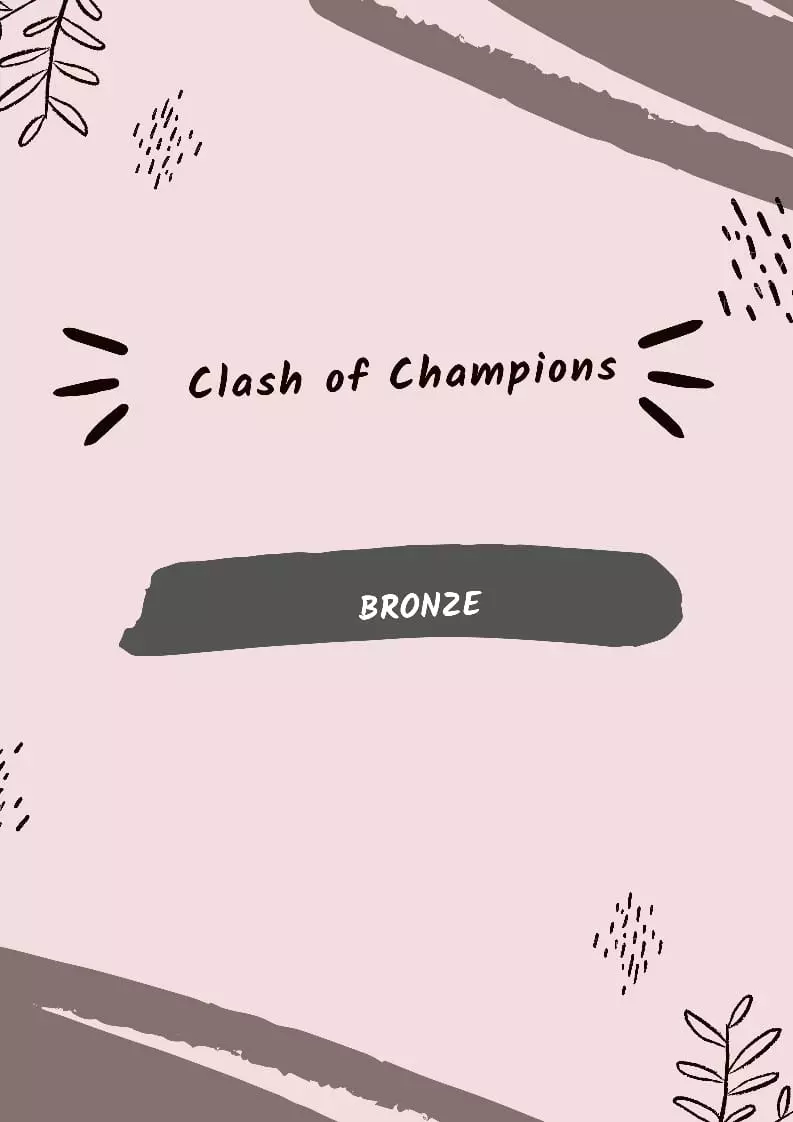
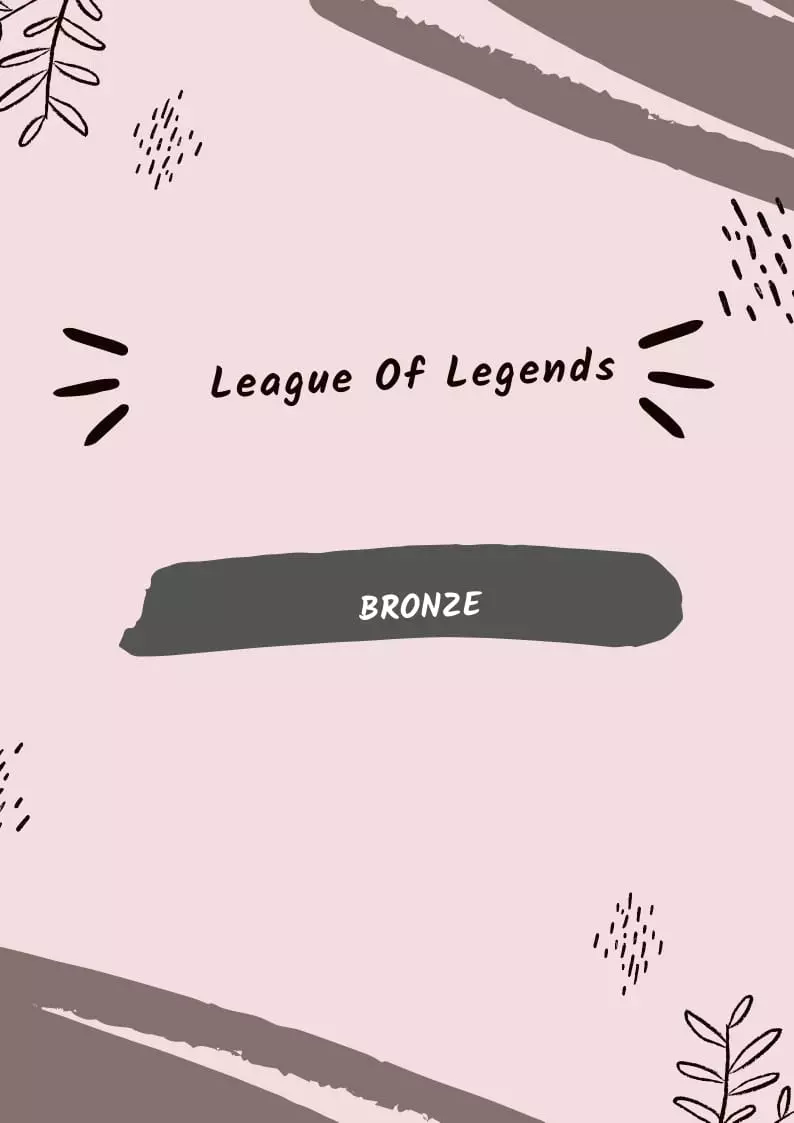
Style update

diff --git a/index.html b/index.html
@@ -5,10 +5,10 @@
     <meta content="width=device-width,initial-scale=1,shrink-to-fit=no" name=viewport>
     <meta content="text/html;charset=utf-8" http-equiv=content-type>
 
-    <title>Clash of Phoenix - Contest by Team Avengers</title>
-    <meta content="Clash of Phoenix - Contest by Team Avengers" property="og:title" name="title">
+    <title>League of Legends - Contest by Team Avengers</title>
+    <meta content="League of Legends - Contest by Team Avengers" property="og:title" name="title">
 
-    <meta content="Clash of Phoenix - Contest by Team Avengers" property="og:description" name="description">
+    <meta content="League of Legends - Contest by Team Avengers" property="og:description" name="description">
     <meta content="Karthikeyan" name="author">
 
     <link href="bootstrap/bootstrap.min.css" rel="stylesheet">
@@ -24,14 +24,14 @@
 
 <header>
     <nav class="text-center py-5">
-        <h1>CLASH OF PHOENIX</h1>
+        <h1>League of Legends</h1>
     </nav>
 </header>
 
-<section class="container mt-5 pb-5 text-center">
+<section class="container mt-4 pb-5 text-center">
     <div class="row">
         <div class="col-md-6">
-            <div class="card pointer shadow">
+            <a href="bronze" class="card pointer shadow text-decoration-none">
                 <div class="card-header">
                     <h2>BRONZE</h2>
                 </div>
@@ -45,13 +45,13 @@
                         <h3>WINNER</h3>
                     </div>
                     <div>
-                        Rs. 2000 worth gift products & 5 Star hotel dinner
+                        ₹2000 worth gift products<br>5 Star hotel dinner
                     </div>
                 </div>
-            </div>
+            </a>
         </div>
         <div class="col-md-6">
-            <div class="card pointer shadow">
+            <a href="star" class="card pointer shadow text-decoration-none">
                 <div class="card-header">
                     <h2>STAR</h2>
                 </div>
@@ -65,10 +65,10 @@
                         <h3>WINNER</h3>
                     </div>
                     <div>
-                        Rs. 2000 worth gift products & 5 Star hotel dinner
+                        ₹3000 worth gift products<br>5 Star hotel dinner
                     </div>
                 </div>
-            </div>
+            </a>
         </div>
     </div>
 </section>

diff --git a/bronze/index.html b/bronze/index.html
@@ -5,10 +5,10 @@
     <meta content="width=device-width,initial-scale=1,shrink-to-fit=no" name=viewport>
     <meta content="text/html;charset=utf-8" http-equiv=content-type>
 
-    <title>Clash of Phoenix - Bronze - Contest by Team Avengers</title>
-    <meta content="Clash of Phoenix - Bronze - Contest by Team Avengers" property="og:title" name="title">
+    <title>League of Legends - Bronze - Contest by Team Avengers</title>
+    <meta content="League of Legends - Bronze - Contest by Team Avengers" property="og:title" name="title">
 
-    <meta content="Clash of Phoenix - Bronze - Contest by Team Avengers" property="og:description" name="description">
+    <meta content="League of Legends - Bronze - Contest by Team Avengers" property="og:description" name="description">
     <meta content="Karthikeyan" name="author">
 
     <link href="../bootstrap/bootstrap.min.css" rel="stylesheet">
@@ -23,7 +23,7 @@
 
 <header>
     <nav class="text-center py-5">
-        <h1>CLASH OF PHOENIX</h1>
+        <h1>League of Legends</h1>
     </nav>
 </header>
 

diff --git a/star/index.html b/star/index.html
@@ -5,10 +5,10 @@
     <meta content="width=device-width,initial-scale=1,shrink-to-fit=no" name=viewport>
     <meta content="text/html;charset=utf-8" http-equiv=content-type>
 
-    <title>Clash of Phoenix - Star - Contest by Team Avengers</title>
-    <meta content="Clash of Phoenix - Star - Contest by Team Avengers" property="og:title" name="title">
+    <title>League of Legends - Star - Contest by Team Avengers</title>
+    <meta content="League of Legends - Star - Contest by Team Avengers" property="og:title" name="title">
 
-    <meta content="Clash of Phoenix - Star - Contest by Team Avengers" property="og:description" name="description">
+    <meta content="League of Legends - Star - Contest by Team Avengers" property="og:description" name="description">
     <meta content="Karthikeyan" name="author">
 
     <link href="../bootstrap/bootstrap.min.css" rel="stylesheet">
@@ -23,7 +23,7 @@
 
 <header>
     <nav class="text-center py-5">
-        <h1>CLASH OF PHOENIX</h1>
+        <h1>League of Legends</h1>
     </nav>
 </header>
 

diff --git a/index.css b/index.css
@@ -8,7 +8,7 @@
     --border: rgba(0, 0, 0, 40%);
 }
 
-body {
+body, a {
     background-color: var(--bg);
     color: var(--color);
     counter-reset: Serial;
